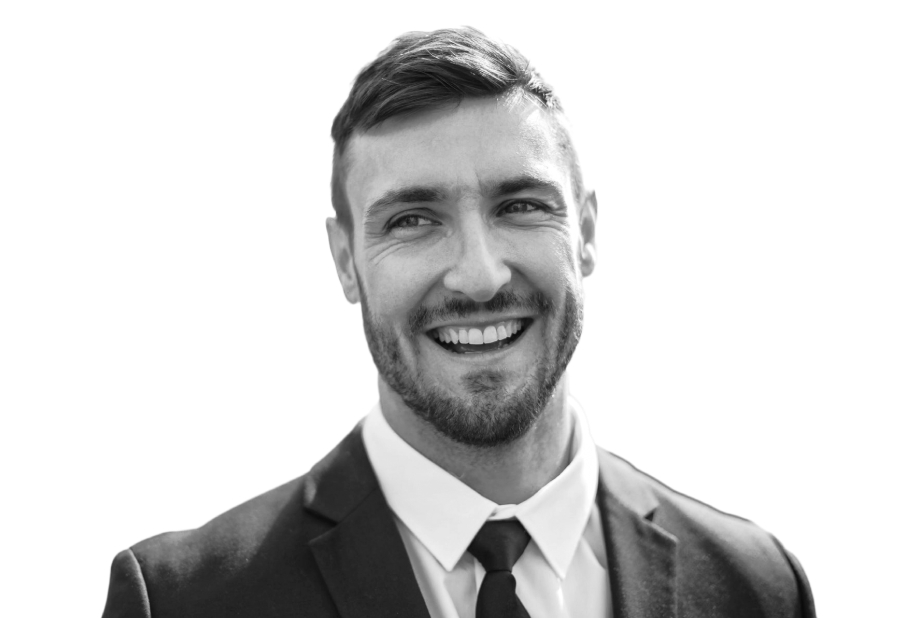
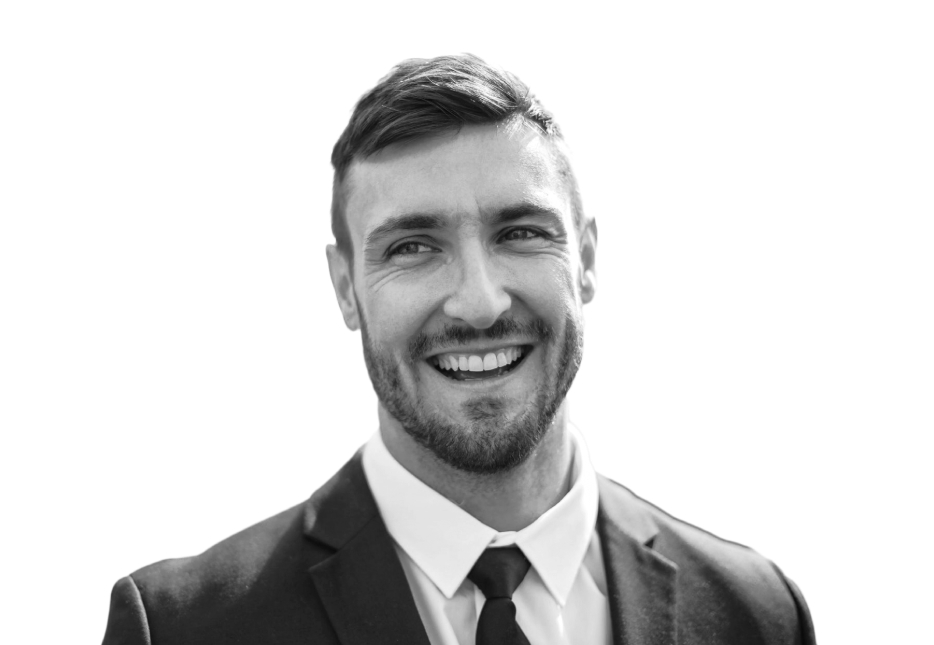
ioi

diff --git a/scss/style.scss b/scss/style.scss
@@ -61,18 +61,6 @@ body {
 	margin: 0px auto;
 }
 
-.xibg {
-	position: relative;
-}
-
-.xibg img {
-	position: absolute;
-	width: 100%;
-	height: 100%;
-	top: 0;
-	left: 0;
-	object-fit: cover;
-}
 // ----------------DEFAULTS---------------------------------------
 
 // -----------------HEADER----------------------------------------
@@ -182,11 +170,8 @@ body {
 }
 
 .main-block__image {
-	position: absolute;
-	width: 995px;
-	height: 618px;
-	top: 169px;
-	left: 792px;
+	background-image: url(/img/mainblock/cover.jpg);
+	background-size: cover;
 }
 
 .main-block__body {

diff --git a/css/style.css b/css/style.css
@@ -61,20 +61,6 @@ body {
   margin: 0px auto;
 }
 
-.xibg {
-  position: relative;
-}
-
-.xibg img {
-  position: absolute;
-  width: 100%;
-  height: 100%;
-  top: 0;
-  left: 0;
-  -o-object-fit: cover;
-     object-fit: cover;
-}
-
 .header {
   background-color: #fff;
   position: absolute;
@@ -161,11 +147,8 @@ body {
 }
 
 .main-block__image {
-  position: absolute;
-  width: 995px;
-  height: 618px;
-  top: 169px;
-  left: 792px;
+  background-image: url(/img/mainblock/cover.jpg);
+  background-size: cover;
 }
 
 .main-block__body {

diff --git a/index.html b/index.html
@@ -85,7 +85,6 @@
 		<!-- page ends here -->
 
 		<footer class="footer">
-
 			footer
 		</footer>
 	</div>
